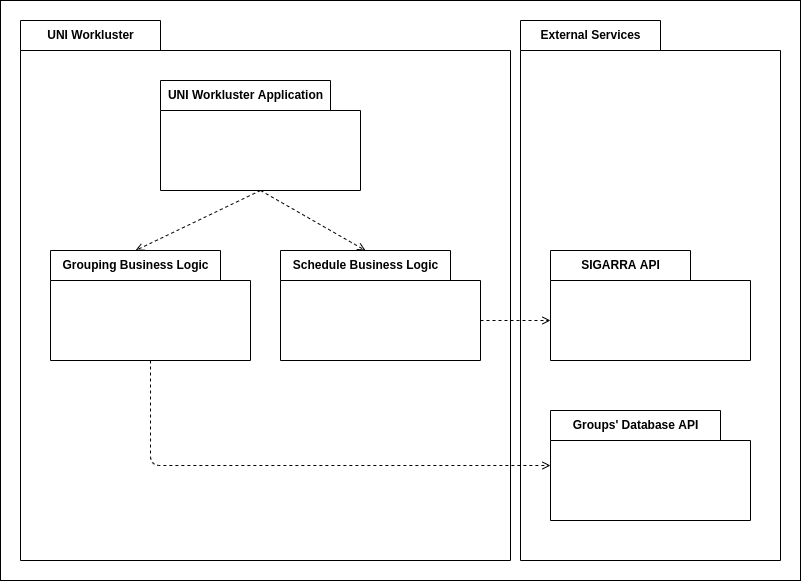
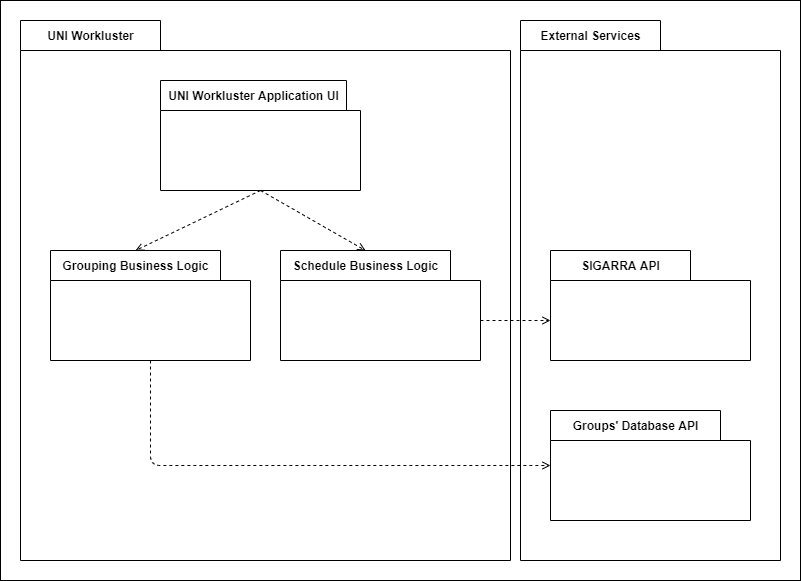
Corrected Logical Architecture Diagram

diff --git a/docs/ArchitectureAndDesign.md b/docs/ArchitectureAndDesign.md
@@ -7,7 +7,7 @@ The UNI Workluster app will run on Android OS (and possibly iOS) and relies on t
 
 ![LogicalView](../images/LogicalArchitecture.png)
 
-- **UNI Workluster Application**: Represents the app's logical package that emcompasses both the Grouping Business Logic and Schedule Business Logic.
+- **UNI Workluster Application UI**: Represents the app's logical package that emcompasses both the Grouping Business Logic and Schedule Business Logic.
 - **Grouping Business Logic**: Represents the Groups' logical package, responsible for everything related to the Group forming feature.
 - **Schedule Business Logic**: Represents the Schedules' logical package, responsible for everything related to the Schedule overlapping feature.
 - **SIGARRA API**: Represents the SIGARRA's logical package, responsible for the communication with SIGARRA's database.
